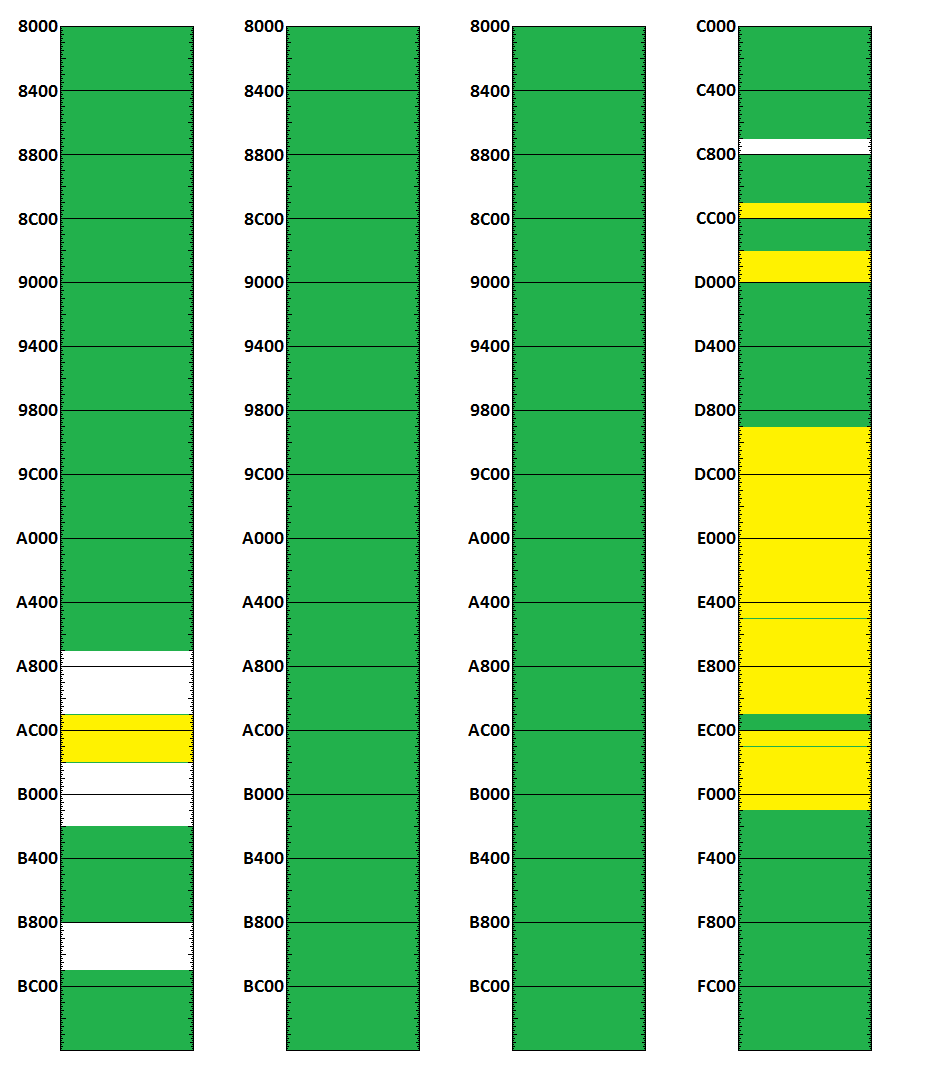
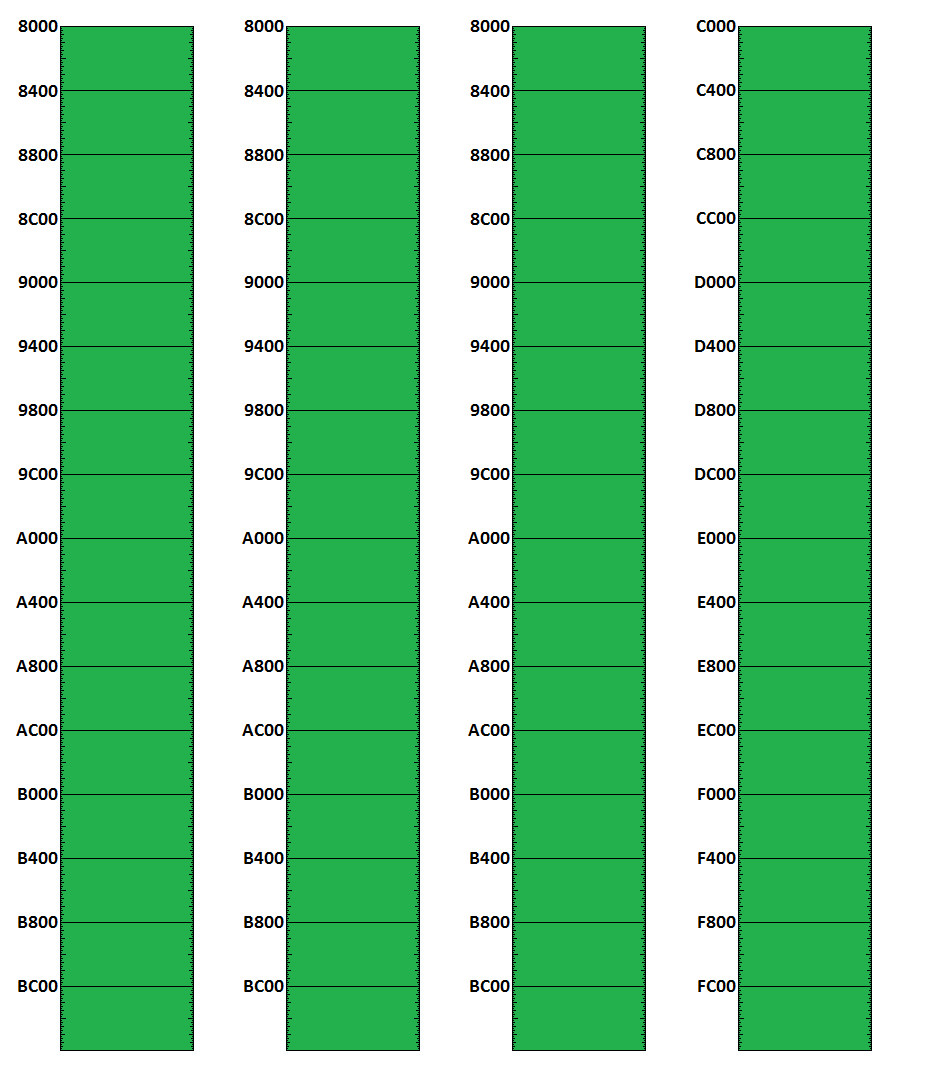
Updated the dragon warrior section to show completion

diff --git a/dwDisassembly/dwDisassembly.html b/dwDisassembly/dwDisassembly.html
@@ -68,9 +68,9 @@
             <div class="row">
                 <div class="col-md-6">
                     <p>
-                        Recently, I decided to disassemble another game.  I chose to work on Dragon Warrior 1.  It is a work
-                        in progress and I plan on completing the disassembly.  Currently, about 80% of the game is disassembled.
-                        To the right is a completion map.  The four columns represent the four program banks in the game. The
+                        Recently, I decided to disassemble another game.  I chose to work on Dragon Warrior 1.  The game
+                        is now fully disassembled! Over 33,000 lines of code are commented and understood. Below is a
+                        completion map.  The four columns represent the four program banks in the game. The
                         hex numbers to the left of the banks represent the addresses of the instructions.  The green areas
                         represent code that is fully disassembled.  The yellow represents areas where a significant amount of
                         disassembly has been done.  The white areas have little or no work done.  Bank 0 (far left column)
@@ -115,8 +115,7 @@
                     <p>
                         The following picture shows the completion of the Dragon Warrior disassembly. The four columns represent the four
                         program banks. The hex values represent the addresses associated with each bank.  The green areas are code that
-                        has been fully disassembled.  The yellow areas are code that is not fully disassembled but a major amount of work
-                        has been completed.  The white areas represent code that has little to no disassembly completed. 
+                        has been fully disassembled.  Now that the project is done, the entire completion map is green!
                     </p>
                 </div>
             </div>
@@ -130,8 +129,6 @@
                     </div>
                 </div>
             </div>
-
-            
         </div>
     </div>
         
